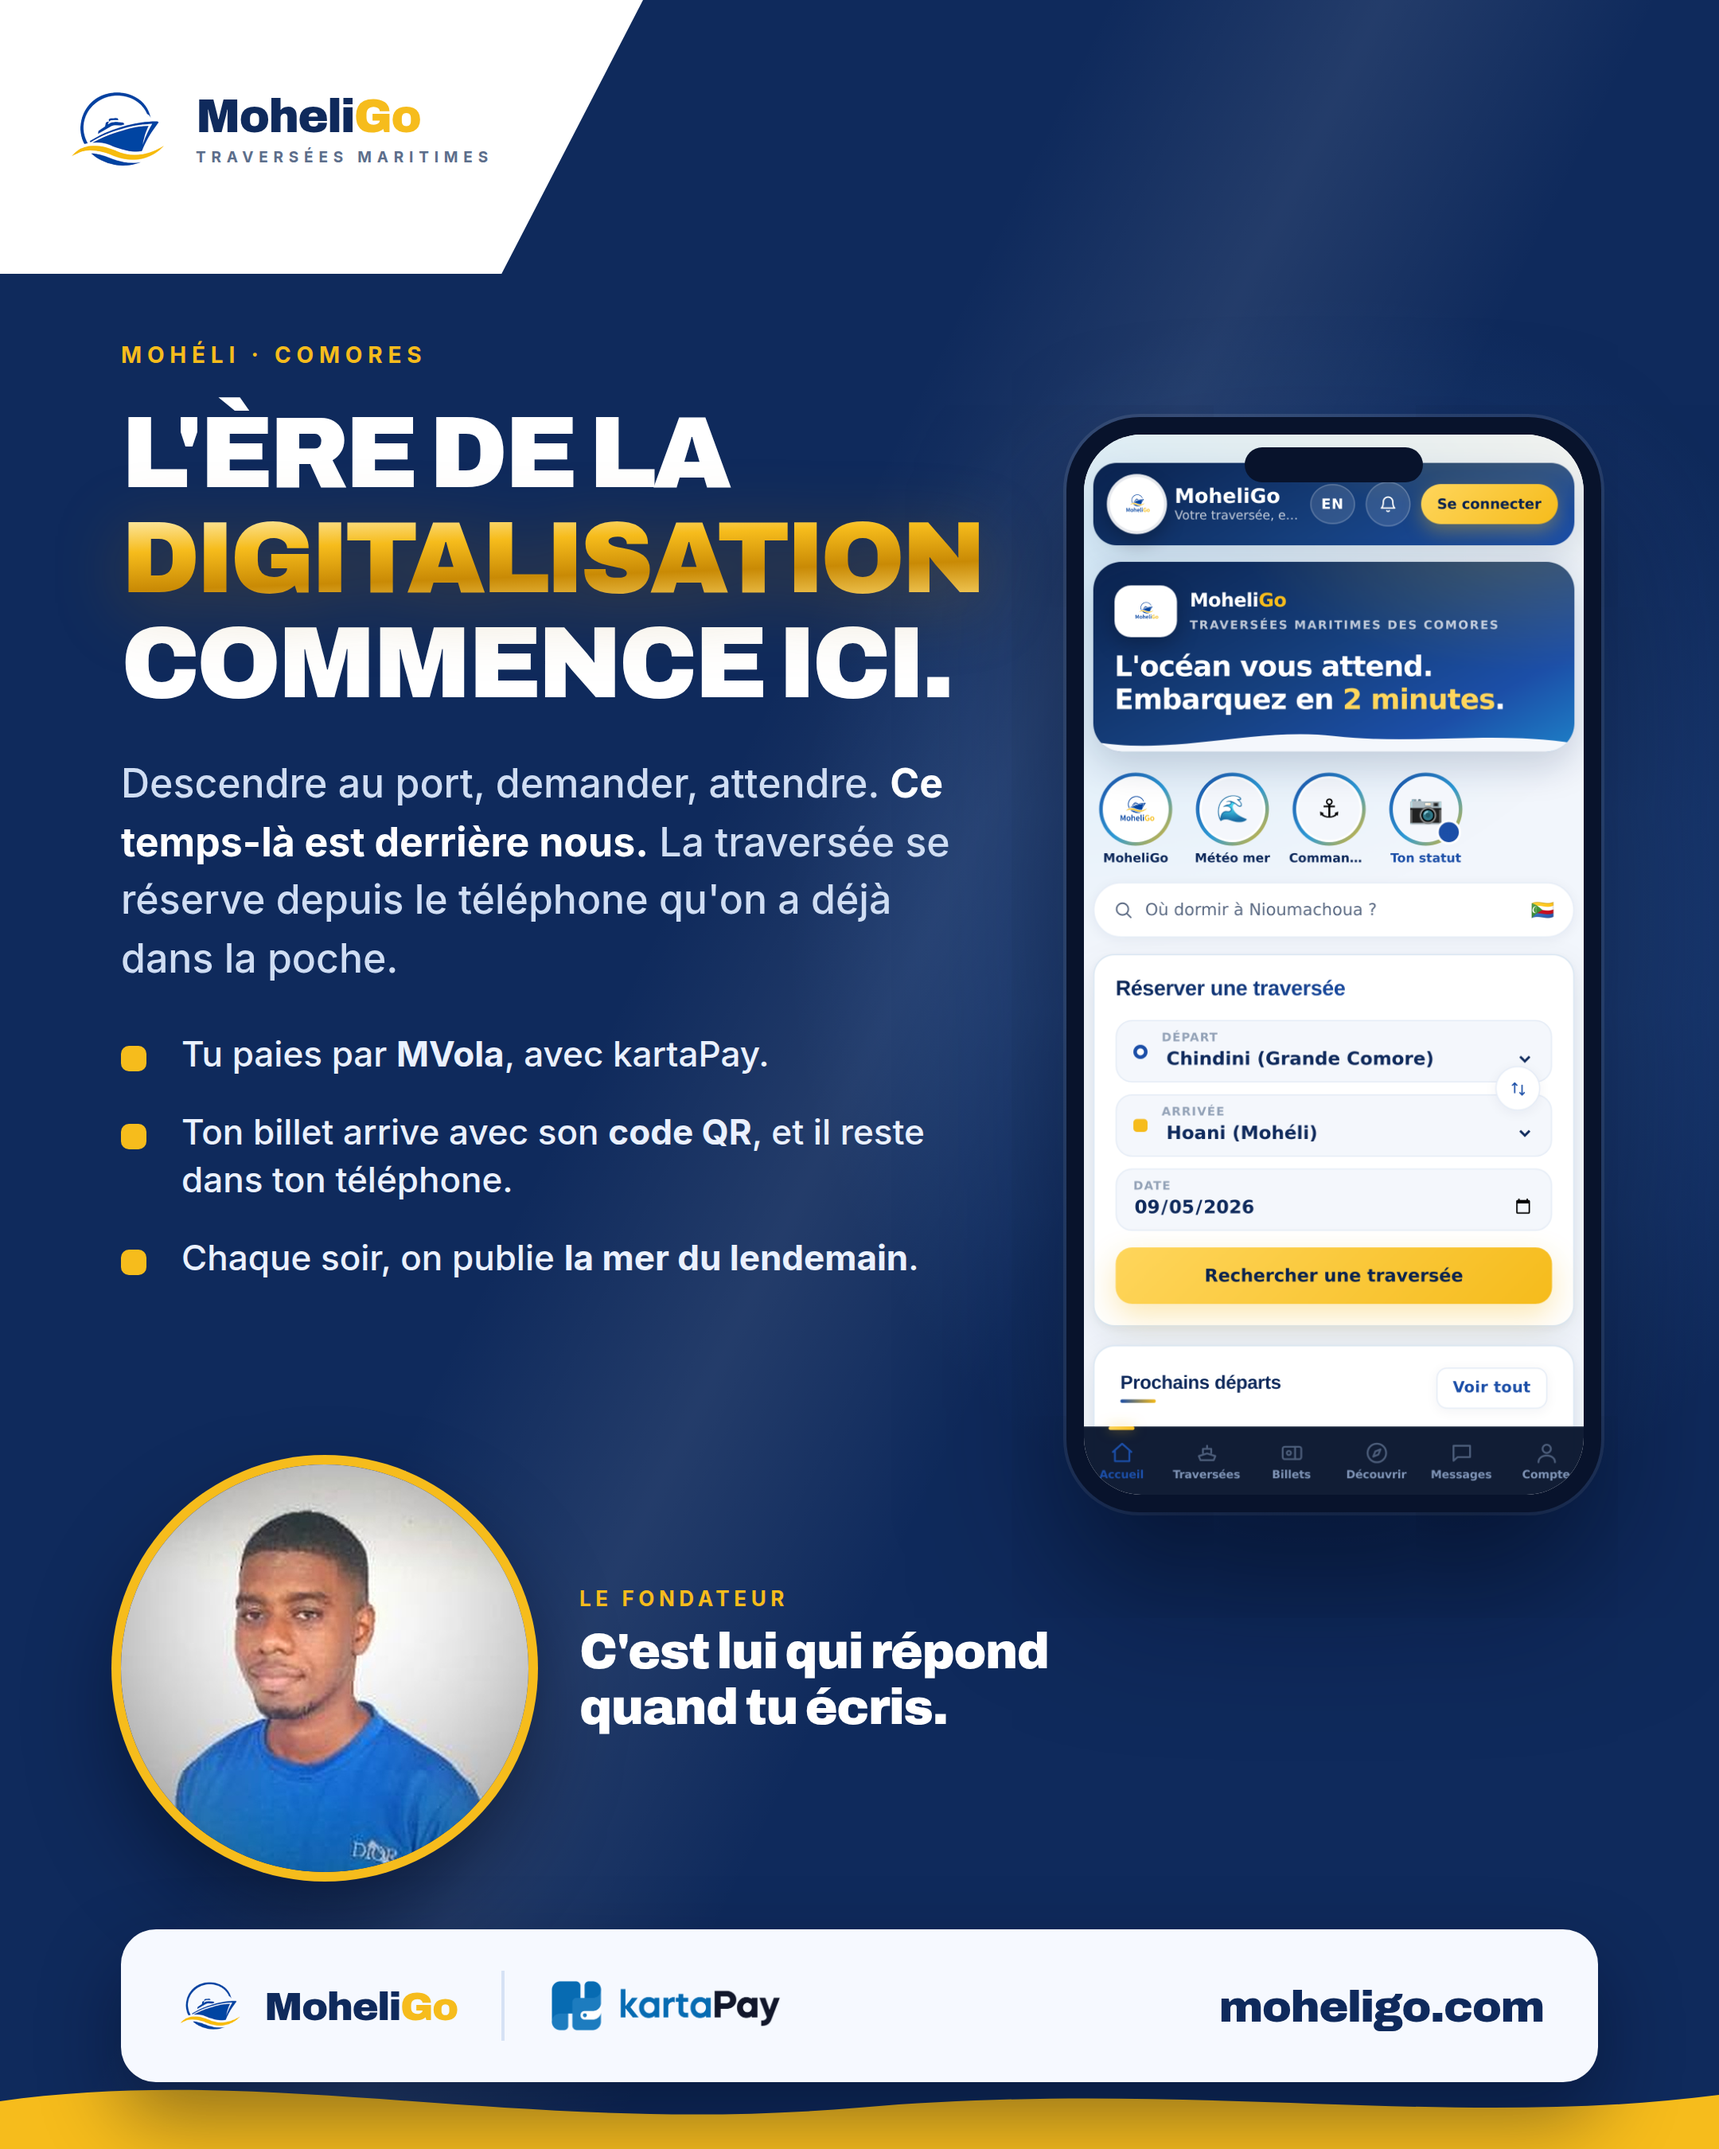
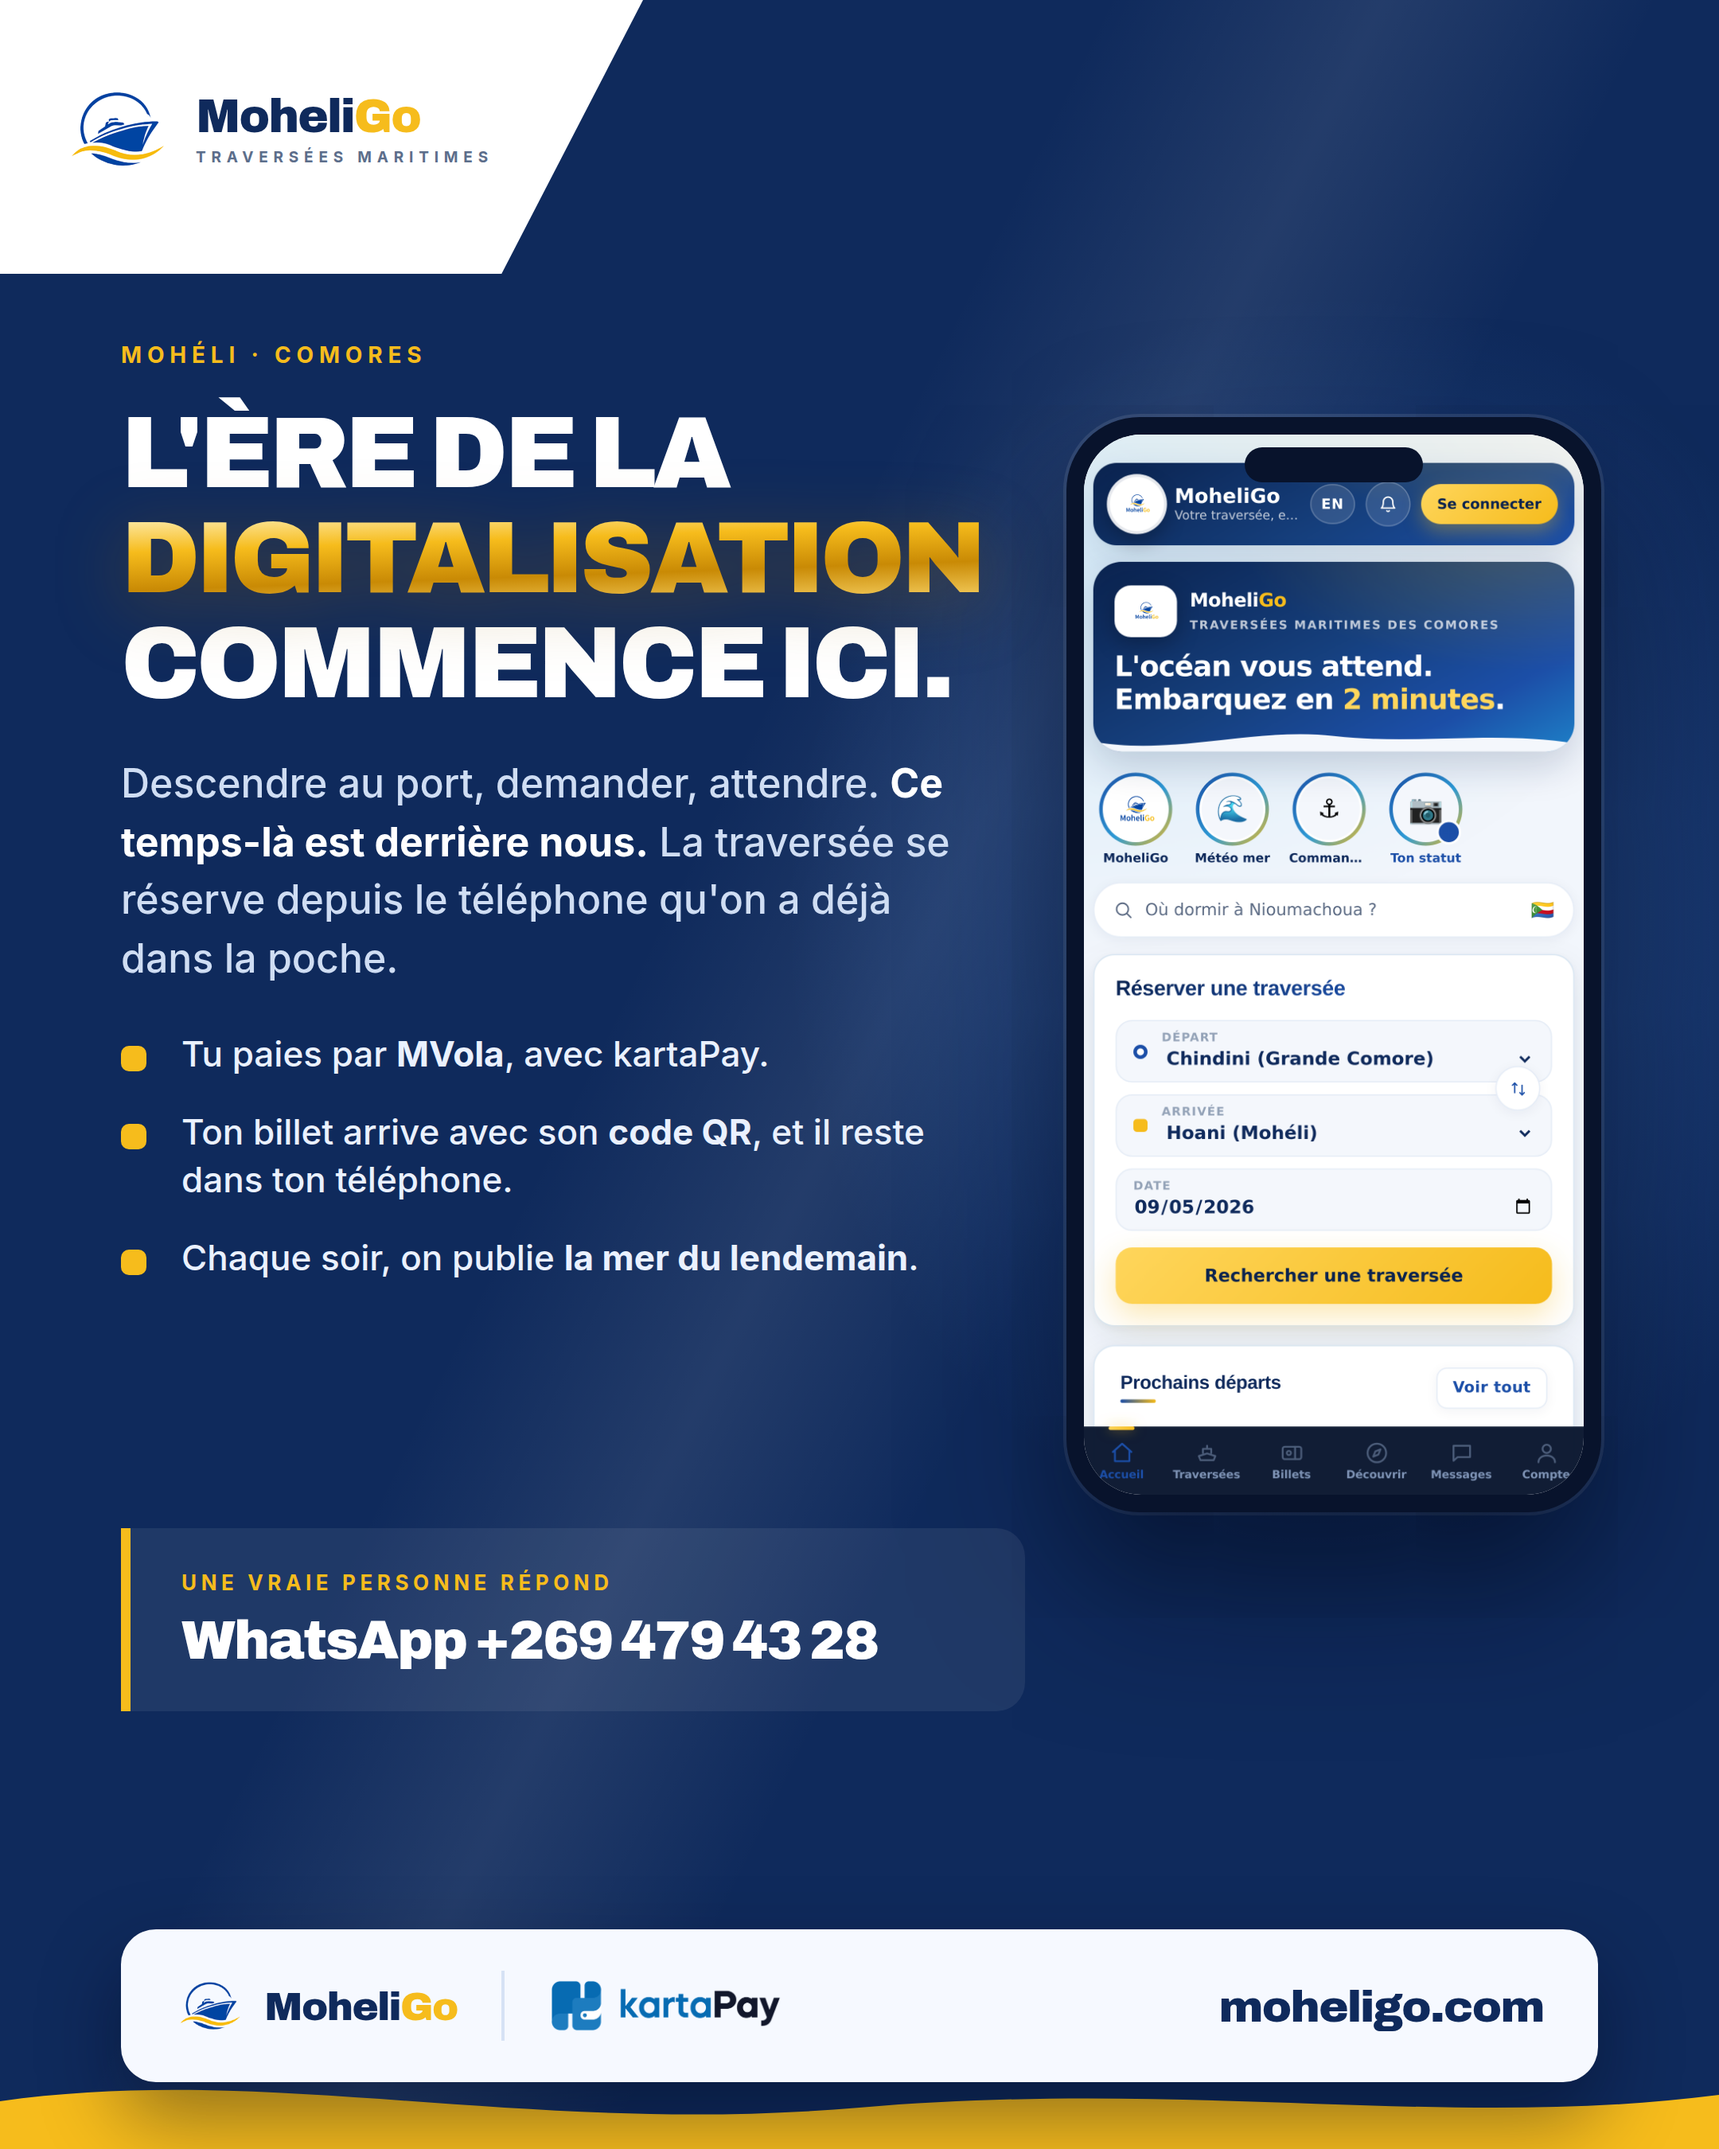
Retirer le portrait du patron : du visuel et du depot
Le patron : « enleve ma photo, j'aime etre discret ». Applique partout, pas
seulement sur l'image : le fichier sort du depot (qui est public) et entre
dans .gitignore pour ne pas y revenir par megarde.

Ce qui remplace le medaillon dit la MEME chose sans montrer personne :
« UNE VRAIE PERSONNE REPOND — WhatsApp +269 479 43 28 ». Dans un pays ou
l'on a peur de payer en ligne, c'est l'argument qui compte, pas le visage de
celui qui repond. Et ce numero est deja public sur nos autres flyers.

⚠ RESERVE A DIRE AU PATRON : l'historique git garde encore le fichier dans
le commit 5404a0a. Le retirer de l'historique demande de le reecrire et de
forcer la branche — sa decision, pas la mienne.

Claude-Session: https://claude.ai/code/session_01BYJ87ihntXtVLQBUE1Jkoy

Changed region(s): [[0.062, 0.6533, 0.6204, 0.9022]]

diff --git a/moheligo/pub/flyers/flyer39-digitalisation-fb.html b/moheligo/pub/flyers/flyer39-digitalisation-fb.html
@@ -9,12 +9,13 @@
      dessus — l'application n'est pas connectée. Une maquette dessinée aurait
      menti sur le produit ; là, ce que le lecteur voit est ce qu'il aura.
 
-     👤 LE PORTRAIT EST PETIT, ET C'EST UN CALCUL, PAS UN CHOIX ESTHÉTIQUE
-     La photo du patron fait 256 px à l'origine (512 après nettoyage). Le
-     médaillon est fixé à 256 px de large : au rendu ×2, cela fait 512 px réels,
-     soit exactement la taille du fichier. **Un pixel affiché pour un pixel
-     disponible : aucun agrandissement, donc aucun flou.** L'agrandir davantage
-     le rendrait mou, et c'est précisément ce qui fait « débutant ».
+     🙈 AUCUN VISAGE, ET C'EST VOULU
+     Le patron, 28/08/2026 : « enlève ma photo, j'aime être discret. » Le
+     portrait qui occupait cette place a été retiré du visuel ET du dépôt.
+     Ce qui le remplace dit la même chose sans montrer personne : dans un pays
+     où l'on a peur de payer en ligne, « une vraie personne répond » est
+     l'argument, pas le visage de celui qui répond. Le numéro est déjà public
+     sur nos autres flyers.
 
      🤝 LE LOGO kartaPay EST BLEU FONCÉ (mesuré : RVB 24/98/155). Il lui faut donc
      un FOND CLAIR — d'où la barre partenaire crème en bas. Posé tel quel sur le
@@ -84,14 +85,17 @@ body { width:1080px; height:1350px; font-family:'Inter',sans-serif; -webkit-font
 .tel .encoche { position:absolute; left:50%; transform:translateX(-50%); top:19px;
   width:112px; height:22px; border-radius:12px; background:#08132C; z-index:2; }
 
-/* LE MÉDAILLON — 256 px : exactement la taille du fichier au rendu ×2 */
-.moi { position:absolute; left:76px; top:920px; width:256px; height:256px; z-index:5;
-  border-radius:50%; overflow:hidden; box-shadow:0 0 0 6px #F6BC1C, 0 26px 54px rgba(2,8,26,.55); }
-.moi img { width:100%; height:100%; object-fit:cover; display:block; }
-.qui { position:absolute; left:364px; top:996px; z-index:5; width:300px; }
-.qui .r { font-size:13px; font-weight:700; letter-spacing:2.8px; color:#F6BC1C; }
-.qui .n { font-family:'Archivo',sans-serif; font-weight:900; font-size:31px; color:#fff;
-  line-height:1.12; margin-top:9px; letter-spacing:-.8px; }
+/* ⛔ PLUS DE PORTRAIT. Le patron, 28/08/2026 : « enlève ma photo, j'aime être
+   discret. » Sa décision, appliquée partout : le visuel, le dépôt, et la fiche.
+   ✅ Ce qui reste dit la MÊME chose sans montrer son visage — dans un pays où
+   l'on a peur de payer en ligne, savoir qu'un humain répond vaut le portrait du
+   fondateur. Et le numéro, lui, est déjà public sur nos autres flyers. */
+.confiance { position:absolute; left:76px; top:960px; width:568px; z-index:5;
+  background:rgba(255,255,255,.07); border-left:6px solid #F6BC1C;
+  border-radius:0 18px 18px 0; padding:26px 32px; }
+.confiance .p { font-size:13px; font-weight:700; letter-spacing:2.8px; color:#F6BC1C; }
+.confiance .n { font-family:'Archivo',sans-serif; font-weight:900; font-size:34px;
+  color:#fff; letter-spacing:-1px; margin-top:10px; }
 
 /* LA BARRE PARTENAIRE — fond clair OBLIGATOIRE : le logo kartaPay est bleu foncé */
 .barre { position:absolute; left:76px; top:1212px; width:928px; height:96px; z-index:5;
@@ -137,18 +141,9 @@ body { width:1080px; height:1350px; font-family:'Inter',sans-serif; -webkit-font
     <div class="ecran"><img src="ecran-appli.png" alt=""></div>
   </div>
 
-  <div class="moi"><img src="../photos/fondateur-portrait.jpg" alt=""></div>
-  <div class="qui">
-    <!-- ⛔ PAS DE CITATION INVENTÉE. J'avais d'abord écrit « On a construit ça
-         depuis Mohéli » entre guillemets. Il ne l'a jamais dit : mettre une
-         phrase dans la bouche de quelqu'un, même flatteuse, même pour lui,
-         c'est fabriquer une parole. Même règle que pour sa voix clonée.
-         ✅ Ce qui est écrit ici est VRAI et vérifiable : le patron garde le
-         service client (répartition des postes du 11/08, manuel § 12.2), donc
-         c'est bien lui qui répond sur le WhatsApp imprimé sur nos flyers.
-         S'il veut une vraie citation, il me la donne et je la mets. -->
-    <div class="r">LE FONDATEUR</div>
-    <div class="n">C'est lui qui répond<br>quand tu écris.</div>
+  <div class="confiance">
+    <div class="p">UNE VRAIE PERSONNE RÉPOND</div>
+    <div class="n">WhatsApp +269 479 43 28</div>
   </div>
 
   <div class="barre">
